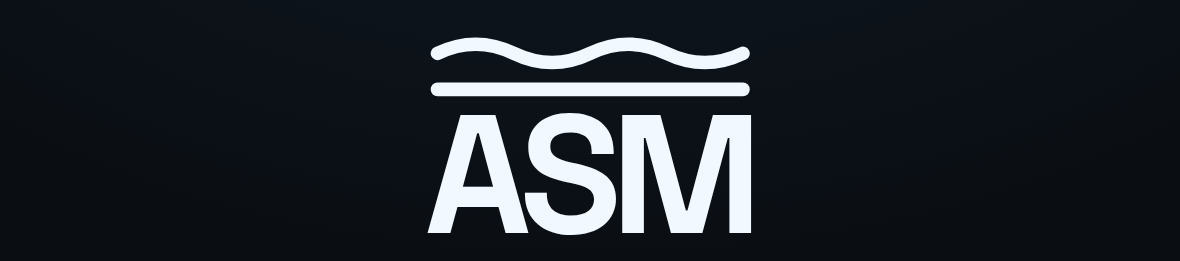
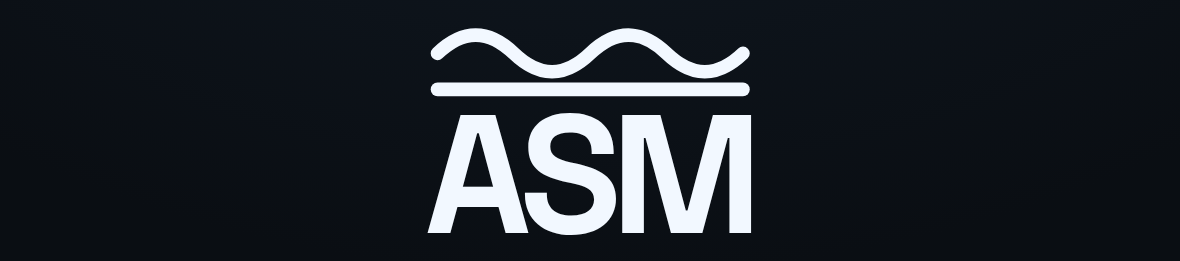
design(grade-lab): true equal gaps at troughs and between waves

Changed region(s): [[0.3661, 0.092, 0.6407, 0.3065]]

diff --git a/design/grade-lab/lockup.js b/design/grade-lab/lockup.js
@@ -77,30 +77,48 @@ export function renderLockup(host, opts) {
   const paths = [];
 
   const wavePath = (y) => {
-    // 四个拱：接近字体里的 ≈，不是装饰性的波浪线。
+    // 四个拱。二次贝塞尔的峰值只有控制点偏移的一半，所以这里给 2×amp，
+    // 让波峰/波谷真的落在 ±amp —— 否则实际振幅只有标称的一半，间距也会算错。
     const q = inkWidth / 4;
-    let d = `M ${inkLeft} ${y} q ${q / 2} ${-amp} ${q} 0`;
+    const ctrl = -2 * amp;
+    let d = `M ${inkLeft} ${y} q ${q / 2} ${ctrl} ${q} 0`;
     for (let i = 0; i < 3; i += 1) d += ` t ${q} 0`;
     return d;
   };
   const linePath = (y) => `M ${inkLeft} ${y} L ${inkRight} ${y}`;
 
-  // 每一行的墨迹半高
-  const half = rows.map((row) => (row.kind === 'wave' ? amp + stem / 2 : stem / 2));
-  const gapBelow = rows.map(() => cap * 0.035); // 统一墨迹间隙（和等号两横一致）
+  const gap = cap * 0.035; // 唯一间隙：所有相邻两行都是它
 
-  // 从下往上：最下面一行离字 gapToWord，其余按墨迹间隙叠上去。
+  /*
+   * 一行可能在另一行的上方，两行之间的距离不是简单“半高相加”：
+   * - 直线 ↔ 直线：距离 = stem + gap；
+   * - 波浪 ↔ 直线：波浪的谷底才是最近点，距离 = amp + stem + gap；
+   * - 波浪 ↔ 波浪（同相位）：两条曲线平行，振幅互相抵消，距离仍是 stem + gap。
+   * 下面的 below / above 就是“这一段额外要预留的振幅”。
+   */
+  const extra = (below, above) => {
+    if (below === 'wave' && above === 'wave') return 0;
+    let e = 0;
+    if (below === 'wave') e += amp;
+    if (above === 'wave') e += amp;
+    return e;
+  };
+
+  // 从下往上：最下面一行的底线离 cap line 是 gapToWord。
   const stackAbove = [];
-  stackAbove[rows.length - 1] = top - gapToWord - half[rows.length - 1];
+  const last = rows.length - 1;
+  stackAbove[last] = top - gapToWord - (rows[last].kind === 'wave' ? amp : 0) - stem / 2;
   for (let i = rows.length - 2; i >= 0; i -= 1) {
-    stackAbove[i] = stackAbove[i + 1] - half[i + 1] - gapBelow[i] - half[i];
+    const gapBetween = stem + gap + extra(rows[i].kind, rows[i + 1].kind);
+    stackAbove[i] = stackAbove[i + 1] - gapBetween;
   }
 
   // 镜像：最上面一行离基线 gapToWord，其余往下叠。
   const stackBelow = [];
-  stackBelow[0] = baseline + gapToWord + half[0];
+  stackBelow[0] = baseline + gapToWord + (rows[0].kind === 'wave' ? amp : 0) + stem / 2;
   for (let i = 1; i < rows.length; i += 1) {
-    stackBelow[i] = stackBelow[i - 1] + half[i - 1] + gapBelow[i - 1] + half[i];
+    const gapBetween = stem + gap + extra(rows[i - 1].kind, rows[i].kind);
+    stackBelow[i] = stackBelow[i - 1] + gapBetween;
   }
 
   const stacked = variant === 'above' || variant === 'below' || variant === 'stack';
@@ -123,14 +141,15 @@ export function renderLockup(host, opts) {
 
   // —— 3. 视口 ——
   const pad = cap * 0.24;
+  const half = (row) => (row.kind === 'wave' ? amp : 0) + stem / 2;
   const minY =
-    variant === 'above' ? stackAbove[0] - half[0] - pad : top - pad * 0.6;
+    variant === 'above' ? stackAbove[0] - half(rows[0]) - pad : top - pad * 0.6;
   const maxY =
     variant === 'above'
       ? baseline + pad
       : variant === 'behind'
         ? baseline + pad
-        : stackBelow[rows.length - 1] + half[rows.length - 1] + pad;
+        : stackBelow[rows.length - 1] + half(rows[rows.length - 1]) + pad;
   const minX = left - pad;
   const maxX = right + pad;
   svg.setAttribute('viewBox', `${minX} ${minY} ${maxX - minX} ${maxY - minY}`);
